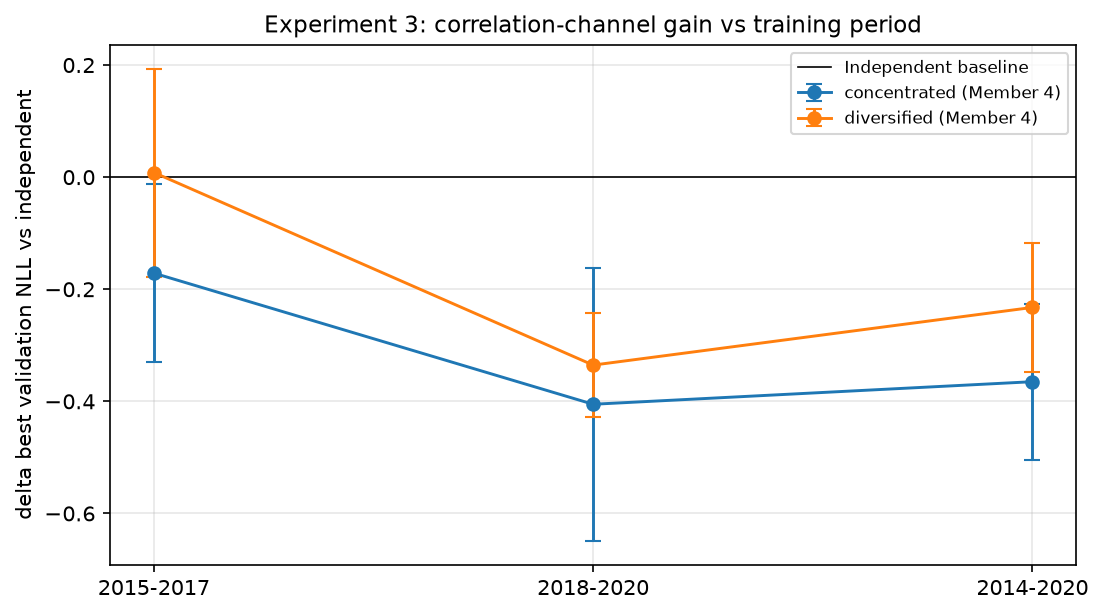
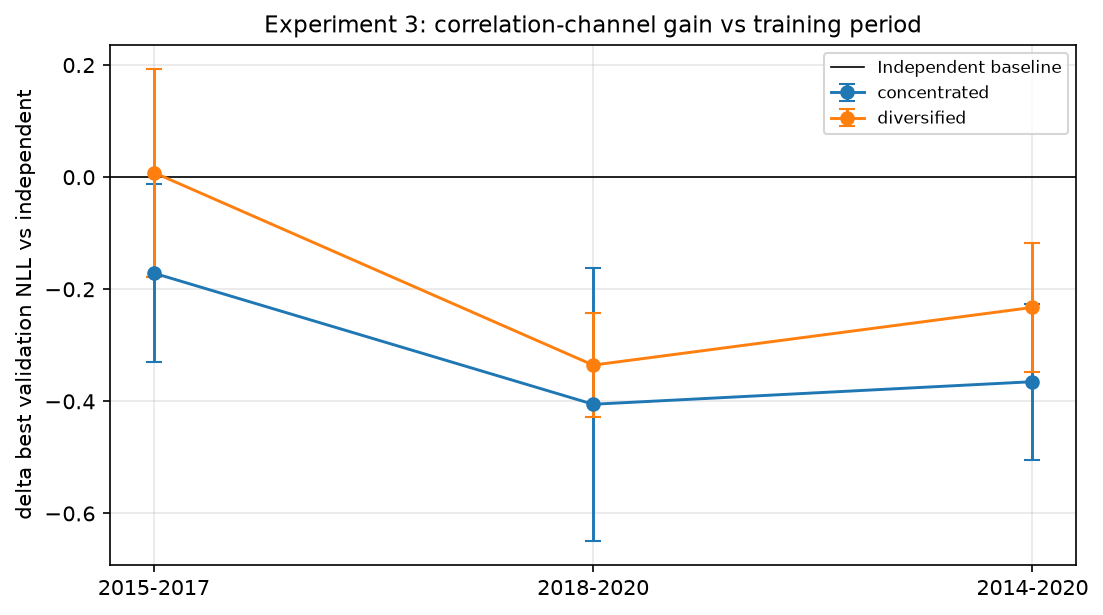
Remove internal team references from code, figures, and findings

Changed region(s): [[0.709, 0.0927, 0.9556, 0.2163]]

diff --git a/experiments/neural_SDE/compare_baskets_multi.py b/experiments/neural_SDE/compare_baskets_multi.py
@@ -21,7 +21,7 @@ from experiments.neural_SDE.compare_ablations_multi import EXP3_CONFIGS, config_
 BASKET_SUFFIX = {"same-sector": "", "concentrated": "_conc", "diversified": "_div"}
 SEEDS = (42, 43, 44, 45, 46, 47)  # seed-42 runs keep their original names
 
-# Period comparison on Member 4's baskets (Alireza's split: correlation is stronger 2018+)
+# Period comparison on the Exp 1 baskets (correlation is stronger in 2018+)
 PERIOD_SUFFIX = {"2015-2017": "", "2018-2020": "_late", "2014-2020": "_all"}
 PERIOD_BASKETS = {"concentrated": "_conc", "diversified": "_div"}
 
@@ -126,7 +126,7 @@ def write_basket_findings(output_dir, table):
         lines.append(f"| {basket} | {r0['mean_pairwise_corr']:.2f} | {r0['corr_ceiling']:.2f} | " + " | ".join(cells) + " |")
     lines += [
         "",
-        "Gain tracks the ceiling: decisive on same-sector, within noise on Member 4's (2015-2017) baskets.",
+        "Gain tracks the ceiling: decisive on same-sector; within noise on concentrated/diversified (2015-2017).",
         "Figure: `exp3_basket_scaling.png`. Data: `exp3_basket_comparison.csv`.",
     ]
     (Path(output_dir) / "exp3_basket_findings.md").write_text("\n".join(lines) + "\n")
@@ -203,7 +203,7 @@ def plot_period_scaling(table, output_file):
         grp = grp.set_index("period").loc[list(PERIOD_SUFFIX)].reset_index()
         ax.errorbar(
             grp["period"], grp["delta_mean"], yerr=grp["delta_std"],
-            marker="o", capsize=4, linewidth=1.4, label=f"{basket} (Member 4)",
+            marker="o", capsize=4, linewidth=1.4, label=basket,
         )
     ax.axhline(0, color="black", linewidth=0.8, label="Independent baseline")
     ax.set_ylabel("delta best validation NLL vs independent")
@@ -218,7 +218,7 @@ def plot_period_scaling(table, output_file):
 def write_period_findings(output_dir, table):
     """One-screen Exp 3 period findings."""
     lines = [
-        "# Exp 3 period comparison (Member 4's baskets)",
+        "# Exp 3 period comparison",
         "",
         f"Delta best val NLL vs independent (mean +/- std, {len(SEEDS)} seeds).",
         "Rolling correlation is ~50-65% stronger in 2018-2020 than 2015-2017 (Exp 1).",
@@ -266,7 +266,7 @@ if __name__ == "__main__":
 
     parser = argparse.ArgumentParser(description="Exp 3 comparisons.")
     parser.add_argument("--periods", action="store_true",
-                        help="Compare training periods on Member 4's baskets instead of comparing baskets.")
+                        help="Compare training periods on the concentrated/diversified baskets.")
     args = parser.parse_args()
     if args.periods:
         main_compare_periods()

diff --git a/experiments/neural_SDE/generate_samples_multi.py b/experiments/neural_SDE/generate_samples_multi.py
@@ -175,7 +175,7 @@ def main_mc_multi_asset(
 ):
     """Generate correlated MC rollouts for several forecast origins of the basket.
 
-    Artifacts (Member 4 schema) in Data/Synthetic: NPZ of all paths + inputs,
+    Artifacts in Data/Synthetic: NPZ of all paths + inputs,
     long-format paths CSV, and the real-vs-synthetic correlation sanity plot.
     """
     if n_conditions <= 0 or mc_paths <= 0:
@@ -249,7 +249,7 @@ def main_mc_multi_asset(
 
     learned_corr = model.model.correlation_matrix().detach().cpu().numpy().astype(np.float32)
 
-    # NPZ artifact (Member 4 schema)
+    # NPZ artifact
     synthetic_artifacts_dir = Path(__file__).resolve().parents[2] / "Data" / "Synthetic"
     synthetic_artifacts_dir.mkdir(parents=True, exist_ok=True)
     artifacts_file = synthetic_artifacts_dir / "synthetic_rollout_MC_multi_valid_samples.npz"

diff --git a/experiments/neural_SDE/trainer_cfg/neural_SDE/US_Stocks_Multi.py b/experiments/neural_SDE/trainer_cfg/neural_SDE/US_Stocks_Multi.py
@@ -7,7 +7,7 @@ from amgm.models.mlp_multi import NeuralSDEMoEMultiAsset
 
 def get_trainer_cfg():
     # Relationship-driven basket: same-sector assets (SectorCode 40), mean pairwise
-    # return corr 0.84 in 2014-2017. Placeholder until Member 4's Exp 1 analysis.
+    # return corr 0.84 in 2014-2017.
     basket = ["00674201", "14335601", "13376801", "01272601", "00764701"]
     n_assets = len(basket)
 

diff --git a/workspace/neural_SDE/logs/exp3_ablations/exp3_basket_findings.md b/workspace/neural_SDE/logs/exp3_ablations/exp3_basket_findings.md
@@ -9,5 +9,5 @@ Ceiling = -0.5*logdet(R): the NLL gain the basket's correlation structure can ex
 | concentrated | 0.30 | 0.25 | -0.17 +/- 0.16 | -0.17 +/- 0.26 | -0.35 +/- 0.24 |
 | diversified | 0.20 | 0.11 | +0.01 +/- 0.19 | -0.14 +/- 0.10 | -0.14 +/- 0.13 |
 
-Gain tracks the ceiling: decisive on same-sector, within noise on Member 4's (2015-2017) baskets.
+Gain tracks the ceiling: decisive on same-sector; within noise on concentrated/diversified (2015-2017).
 Figure: `exp3_basket_scaling.png`. Data: `exp3_basket_comparison.csv`.

diff --git a/workspace/neural_SDE/logs/exp3_ablations/exp3_period_findings.md b/workspace/neural_SDE/logs/exp3_ablations/exp3_period_findings.md
@@ -1,4 +1,4 @@
-# Exp 3 period comparison (Member 4's baskets)
+# Exp 3 period comparison
 
 Delta best val NLL vs independent (mean +/- std, 6 seeds).
 Rolling correlation is ~50-65% stronger in 2018-2020 than 2015-2017 (Exp 1).
